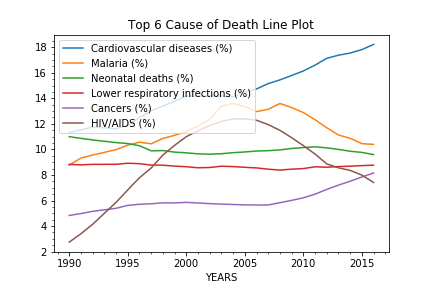
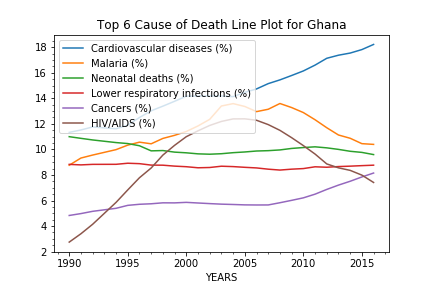
improved images

Changed region(s): [[0.2106, 0.0625, 0.8125, 0.125]]

diff --git a/global_mortality/global_mortality.py b/global_mortality/global_mortality.py
@@ -32,18 +32,18 @@ c = c.sort_values(ascending = True)
 data_2014 = data_2014.drop(['country','country_code','year'], axis=1)
 a = data_2014.loc[2103]
 a = a.sort_values(ascending = True)
-plt. figure()
-plt.title('2016 cause of death')
+plt. figure(figsize = (20,20))
+plt.title('2016 cause of death for Ghana')
 b.plot.barh()
 plt.savefig('2016 cause of death') 
 
-plt. figure()
-plt.title('2015 cause of death')
+plt. figure(figsize = (20,20))
+plt.title('2015 cause of death for Ghana')
 c.plot.barh()
 plt.savefig('2015 cause of death') 
 
-plt. figure()
-plt.title('2014 cause of death')
+plt. figure(figsize = (20,20))
+plt.title('2014 cause of death for Ghana')
 a.plot.barh()
 plt.savefig('2014 cause of death') 
 
@@ -61,9 +61,9 @@ data = data.truncate(after = 'HIV/AIDS (%)')
 data = data.T
 print(data)
 
-plt.figure()
+plt.figure(figsize = (20,20))
 data.plot()
-plt.title('Top 6 Cause of Death Line Plot')
+plt.title('Top 6 Cause of Death Line Plot for Ghana')
 plt.minorticks_on()
 plt.xlabel('YEARS')
 plt.savefig('top 6 cause of death') 
